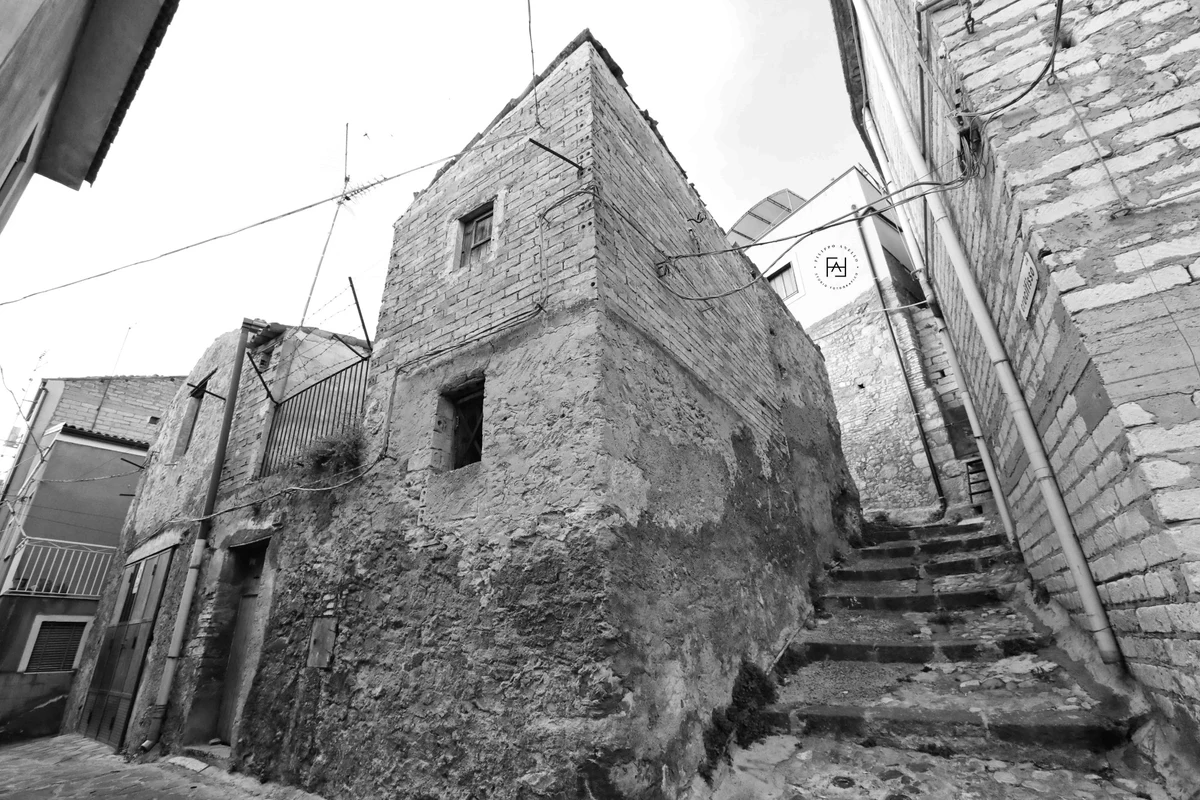
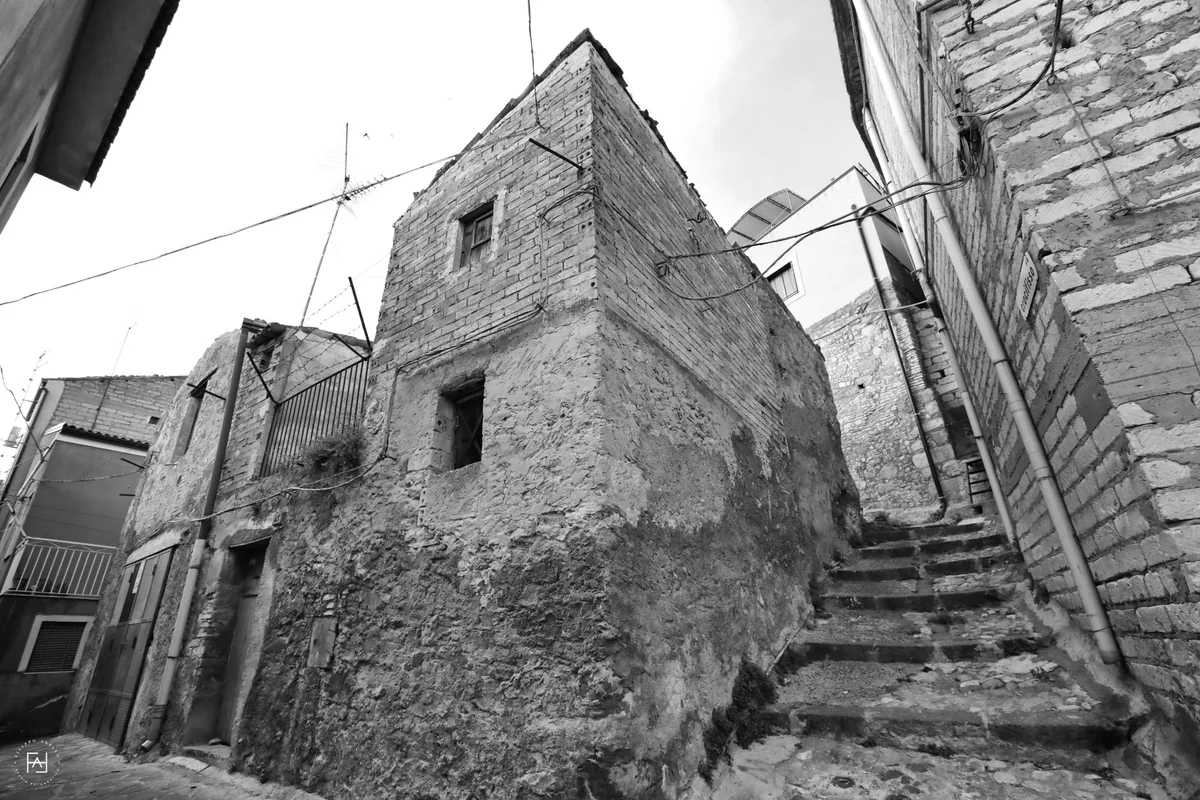
Amplia galleria Quartiere Rocche con foto ottimizzate

Changed region(s): [[0.0, 0.0, 1.0, 1.0], [0.0, 0.0, 0.1542, 0.2812], [0.2775, 0.2188, 0.3083, 0.25]]

diff --git a/src/data/rocche-page.ts b/src/data/rocche-page.ts
@@ -60,6 +60,18 @@ export function getRocchePage(lang: Locale): SightPage {
       { key: 'roccheAnelloSteps', title: l('Le scalinate e le murature del quartiere', 'Steps and masonry in the quarter') },
       { key: 'roccheAnelloCourtyard', title: l("Tra le case e i vicoli delle Rocche, in bianco e nero", "Houses and lanes in the Rocche Quarter, in black and white") },
       { key: 'roccheAnelloLandscape', title: l("Le case sulla roccia e il paesaggio", "Houses on the rock and the surrounding landscape") },
+      { key: "roccheAnello0238", title: l("Un passaggio stretto e una lanterna, in bianco e nero", "A narrow passage and a lantern, in black and white") },
+      { key: "roccheAnello0245", title: l("Un vicolo pavimentato tra le facciate delle case", "A paved lane between house facades") },
+      { key: "roccheAnello0280", title: l("Un ingresso ad arco tra muri e vegetazione", "An arched doorway among walls and greenery") },
+      { key: "roccheAnello0295", title: l("La pavimentazione in pietra e le case del quartiere", "Stone paving and houses in the quarter") },
+      { key: "roccheAnello0298", title: l("Il passaggio tra gli ingressi e le scale esterne", "A passage between doorways and external steps") },
+      { key: "roccheAnello0306", title: l("Uno slargo e le scalinate tra le case", "An open space and steps among the houses") },
+      { key: "roccheAnello0308", title: l("La salita tra le case e i lampioni", "The uphill street among houses and lamps") },
+      { key: "roccheAnello0347", title: l("Una lanterna e i balconi affacciati sul vicolo", "A lantern and balconies overlooking the lane") },
+      { key: "roccheAnello0357", title: l("Un vicolo in discesa tra le case delle Rocche", "A downhill lane among the houses of the Rocche Quarter") },
+      { key: "roccheAnello0363", title: l("Un bivio tra i vicoli del quartiere", "A fork in the lanes of the quarter") },
+      { key: "roccheAnello0419", title: l("La salita verso una casa in pietra", "The uphill lane towards a stone house") },
+      { key: "roccheAnello0432", title: l("Una scalinata stretta tra le facciate", "A narrow stairway between facades") },
     ],
     sources: [
       { title: 'Pro Loco Agira · Quartiere Rocche', url: 'https://www.prolocoagira.it/wp/2017/06/22/quartiere-delle-rocche/' },
